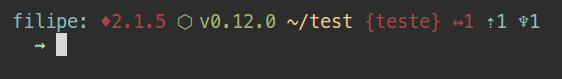
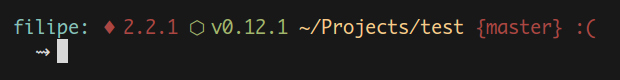
Adds a simple version

Changed region(s): [[0.0, 0.1519, 0.968, 0.7848]]

diff --git a/README.md b/README.md
@@ -4,23 +4,13 @@
 ![Terminal screen](./img/screenshot.png)
 
 ## Features
-- Show the number of untracked files with ↭
-- Show the number of commits unpusheds with ⇡
-- Show the number of unmerged branchs with ♆
-- Show if has unpulled changes with ⇣ `new feature` 
 - Show the Ruby version
 - Show the Node version
+- Show if a branch is dirty
 
 ## Example
 ![Terminal screen](./img/example-screenshot.png)
 ![Terminal screen](./img/example2-screenshot.png)
-
-`↭1` - 1 untrackef file  
-`⇡1` - 1 commit to push  
-`♆1` - 1 branch to merge  
-
-The red color of branch name it's because the branch is dirty, and the green name of the branch is because is clean.
-
 
 ## Installation
 
@@ -31,18 +21,6 @@ The red color of branch name it's because the branch is dirty, and the green nam
 
 ```bash
 ZSH_THEME="monroe"
-```
-
-## Customization
-You can change the variables you own to just display things useful for you:
-
-```bash
-MONROE_RUBY_SHOW=true
-MONROE_NVM_SHOW=true
-MONROE_SHOW_UNPUSHED=true
-MONROE_SHOW_UNMERGED=true
-MONROE_SHOW_UNTRACKED=true
-MONROE_SHOW_UNPULLED=true
 ```
 
 ## License
